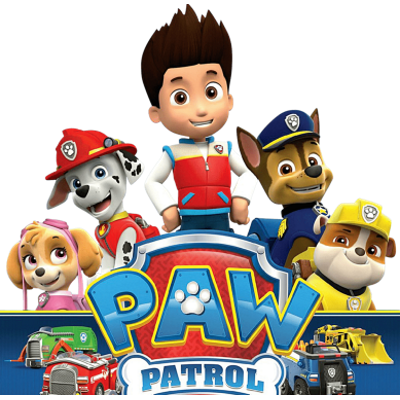
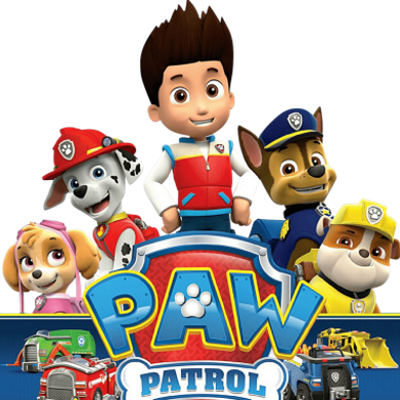
Changed backgrounds to transparent for the collection images

diff --git a/index.html b/index.html
@@ -7,10 +7,10 @@
         Paid
         iStockphoto.com order number 2062552735
     * "The Child" with heart
-        Free
+        Free and permitted
         Attribution: https://stlmotherhood.com/baby-yoda-valentines-for-your-kids-classroom-party/        
     * The others
-        Free for non-commercial use
+        Claim to be free and permitted for non-commercial use
         Attribution: <a href="https://www.clipart.email/">clipart.email</a>
     -->
     <meta charset="utf-8" />
@@ -525,7 +525,7 @@
                     },
                     theme_images: {
                         "Puppies & Kittens": {
-                            collection: "./img/dog-cat-valentine_400x400.jpg",
+                            collection: "./img/dog-cat-valentine_400x400.png",
                             stickers:   "./img/puppy-valentine-clipart-8.jpg"
                         },
                         "Mickey & Minnie": {
@@ -541,15 +541,15 @@
                             stickers:   "./img/cars-stickers_256-192.jpg"
                         },         
                         "JoJo Siwa": {
-                            collection: "./img/jojo-siwa-400x400.jpg",
+                            collection: "./img/jojo-siwa-400x400.png",
                             stickers: "./img/jojo-siwa-stickers_192x190.jpg"
                         },  
                         "Avatar": {
-                            collection: "./img/avatar-image_400x400.jpg",
+                            collection: "./img/avatar-image_400x400.png",
                             stickers: "./img/avatar-stickers_192x148.png"
                         },     
                         "Batman": {
-                            collection: "./img/batman_400x400.jpg",
+                            collection: "./img/batman_400x400.png",
                             stickers: "./img/batman_stickers_192x121.png"
                         },     
                         "Superman": {
@@ -627,7 +627,7 @@
                                 },
                                 {
                                     image: "./img/6_cutouts_192-192.png",
-                                    description: "6 Valentine Cutouts",
+                                    description: "10 Valentine Cutouts",
                                     item_type: "cutouts"
                                 },
                                 {
@@ -668,7 +668,7 @@
                                 },
                                 {
                                     image: "./img/10_cutouts_192-129.png",
-                                    description: "10 Valentine Cutouts",
+                                    description: "30 Valentine Cutouts",
                                     item_type: "cutouts"
                                 },
                                 {
